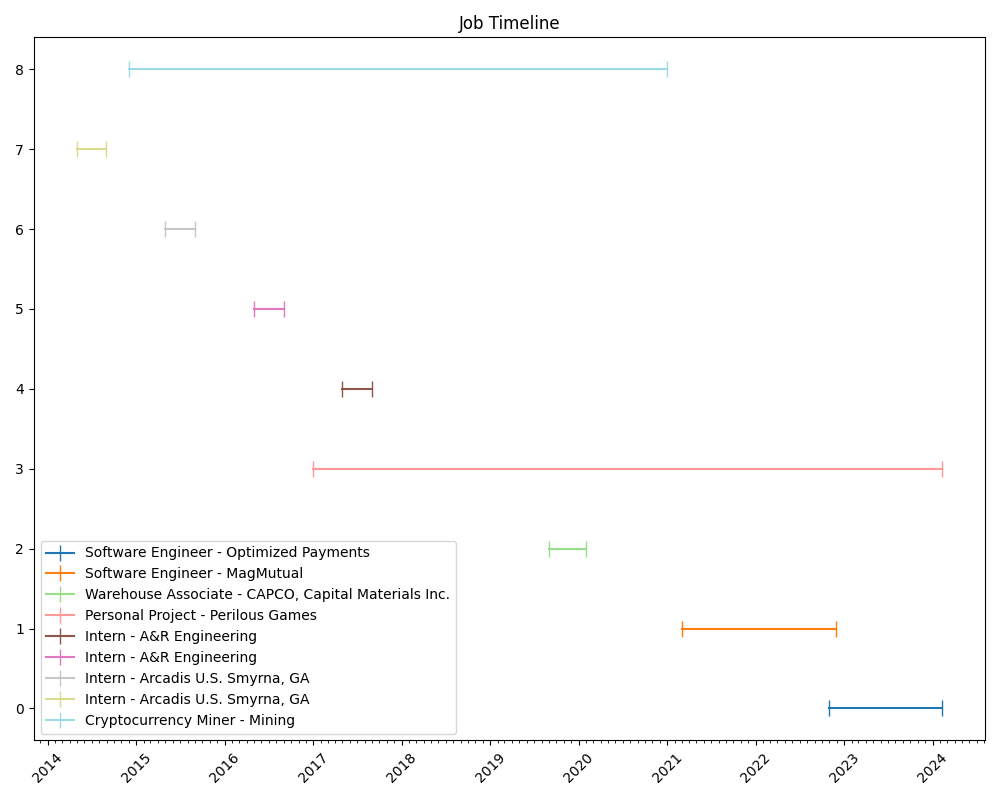
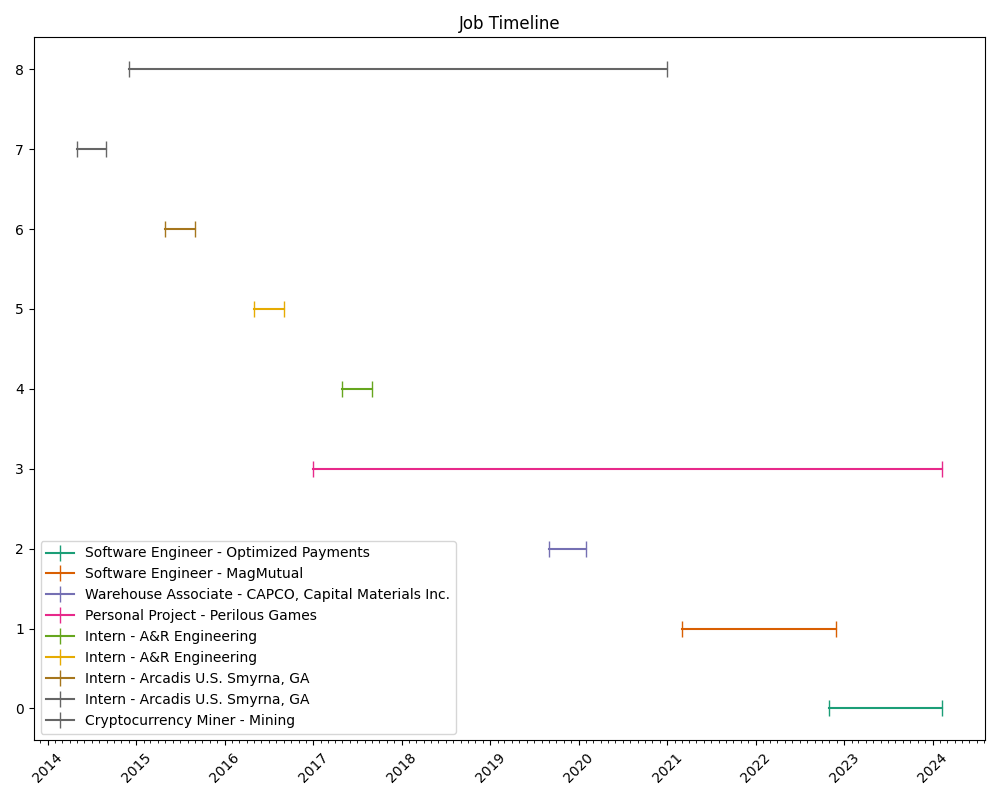
nice

Changed region(s): [[0.031, 0.8125, 0.062, 0.875], [0.248, 0.375, 0.279, 0.4062], [0.031, 0.6875, 0.062, 0.7188]]

diff --git a/job_timeline.py b/job_timeline.py
@@ -24,7 +24,7 @@ for i, item in enumerate(timeline_data):
     timeline_data[i][2] = end_date
 
 # Generate the timeline with distinct colors for each job
-colors = plt.cm.get_cmap('tab20', len(timeline_data))
+colors = plt.cm.get_cmap('Dark2', len(timeline_data))
 
 fig, ax = plt.subplots(figsize=(10, 8))
 
